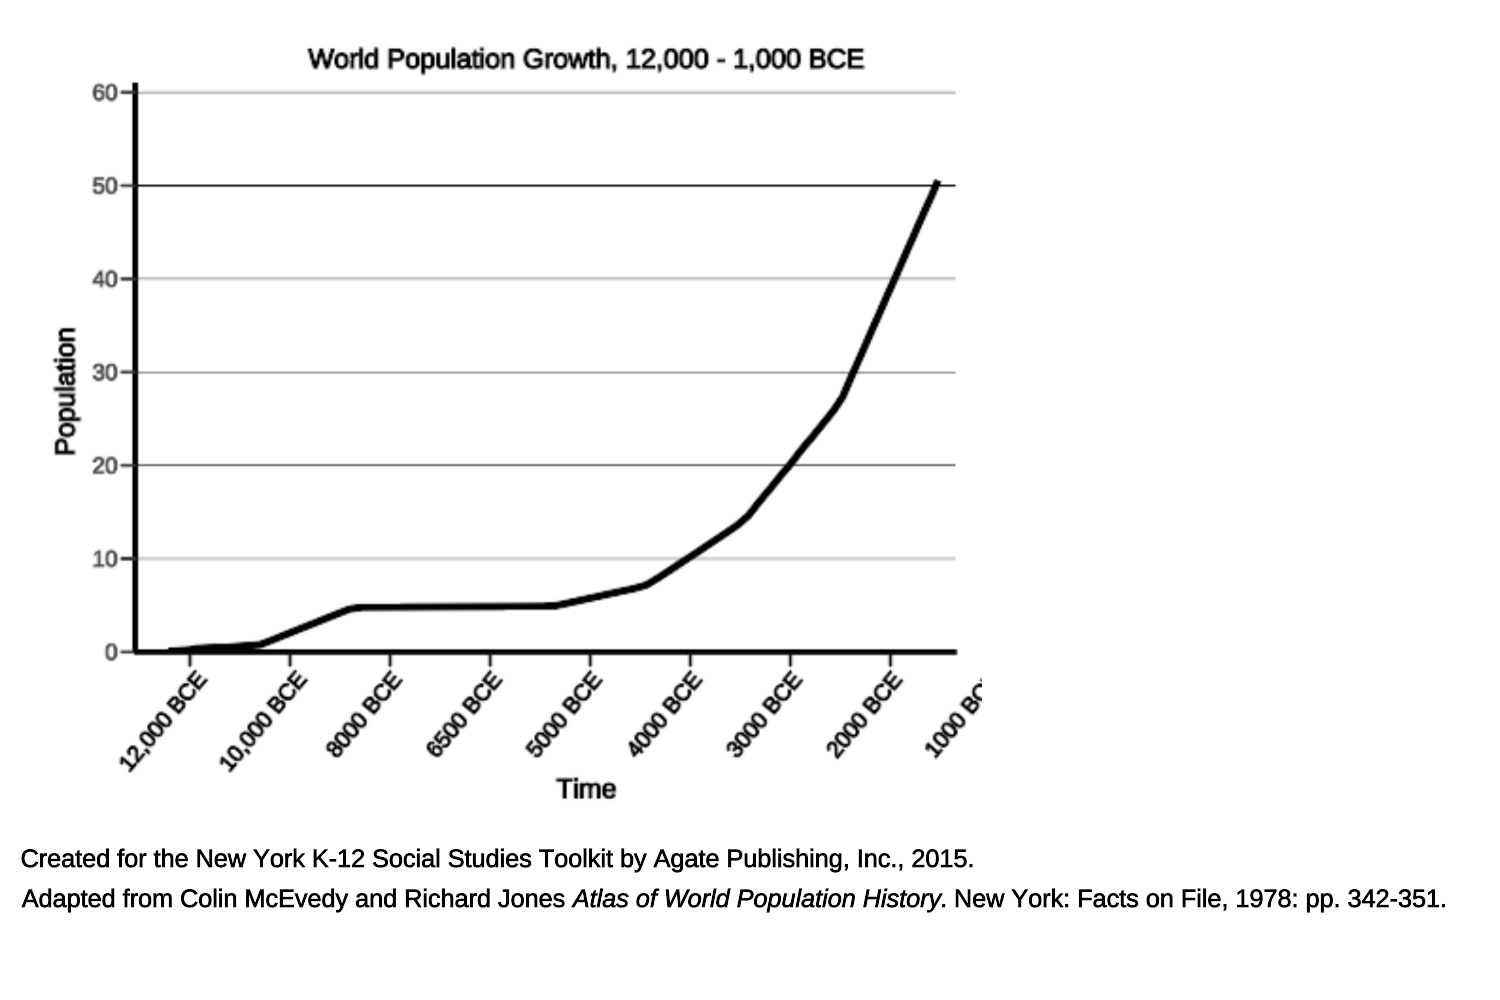
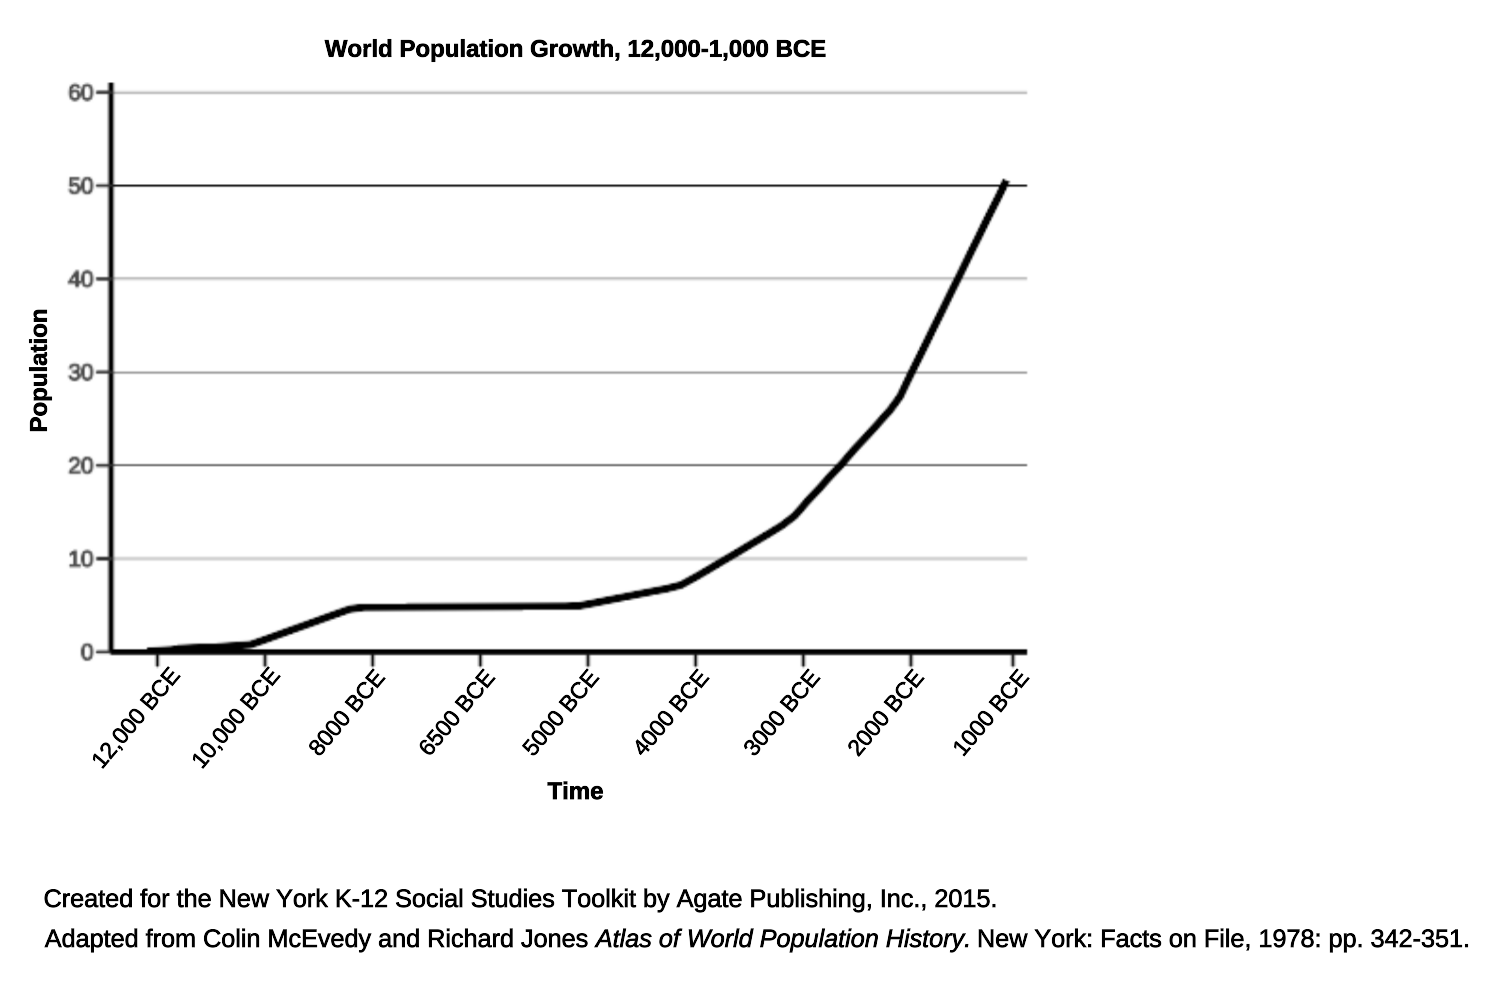
save

diff --git a/Agricultural revolution/Agricultural-Revolution--World-Population.html b/Agricultural revolution/Agricultural-Revolution--World-Population.html
@@ -365,7 +365,7 @@ x_label &lt;- c(&quot;12,000 BCE&quot;, &quot;10,000 BCE&quot;, &quot;8000 BCE&q
 data&lt;- tibble(
  year_levels = c(0.05978, 0.08519, 0.09181, 0.1078, 0.13351, 0.14909, 0.1545, 0.16917, 0.18369, 0.19849, 0.2139, 0.2293, 0.2447, 0.26011, 0.27551, 0.29092, 0.30634, 0.32176, 0.33718, 0.35259, 0.36801, 0.38343, 0.39885, 0.41426, 0.42968, 0.4451, 0.46052, 0.47593, 0.49135, 0.50677, 0.52218, 0.53759, 0.553, 0.56841, 0.58382, 0.59923, 0.61464, 0.63005, 0.64545, 0.66084, 0.67624, 0.69163, 0.70703, 0.72242, 0.73782, 0.75199, 0.76514, 0.77817, 0.79122, 0.80335, 0.81535, 0.82841, 0.84089, 0.85394, 0.86467, 0.87199, 0.87896, 0.88594, 0.89291, 0.89988, 0.90685, 0.91383, 0.9208, 0.92777, 0.93475, 0.94172, 0.94869, 0.95566, 0.96264, 0.97024, 0.97672, .978),
   amount= c(0.06883, 0.21446, 0.3523, 0.43854, 0.52051, 0.64092, 0.66411, 0.77169, 1.27805, 1.81428, 2.37405, 2.92253, 3.4823, 4.03642, 4.58489, 4.79439, 4.8005, 4.80661, 4.81273, 4.81884, 4.82495, 4.83106, 4.83718, 4.84329, 4.8494, 4.85552, 4.86163, 4.86774, 4.87385, 4.87997, 4.95952, 5.25376, 5.56495, 5.86485, 6.17604, 6.47593, 6.77582, 7.1661, 8.0027, 8.9071, 9.82844, 10.73284, 11.66548, 12.58118, 13.52512, 14.60154, 16.12566, 17.52331, 18.97974, 20.26605, 21.68134, 23.06712, 24.45585, 25.91524, 27.37889, 28.92612, 30.34581, 31.74686, 33.16656, 34.60489, 35.99973, 37.42564, 38.85776, 40.24017, 41.67229, 43.11063, 44.49925, 45.93758, 47.34485, 48.83146, 50.1905, 50.5))
-picture &lt;- image_graph(width = 500, height = 450)
+picture &lt;- image_graph(width = 530, height = 450)
 annotation_custom2 &lt;- 
 function (grob, xmin = -Inf, xmax = Inf, ymin = -Inf, ymax =Inf, data) 
 {
@@ -392,7 +392,7 @@ function (grob, xmin = -Inf, xmax = Inf, ymin = -Inf, ymax =Inf, data)
         panel.grid.minor.y= element_blank(),
         axis.text.x= element_blank(),
         axis.text.y = element_text(size = 12),
-   plot.margin=unit(c(2,.5,3,1), &quot;cm&quot;),
+   plot.margin=unit(c(2,.7,3,.1), &quot;cm&quot;),
 ))</code></pre>
 <pre><code>## Warning: Using `size` aesthetic for lines was deprecated in ggplot2 3.4.0.
 ## ℹ Please use `linewidth` instead.</code></pre>
@@ -402,31 +402,27 @@ function (grob, xmin = -Inf, xmax = Inf, ymin = -Inf, ymax =Inf, data)
 <pre><code>## quartz_off_screen 
 ##                 2</code></pre>
 <pre class="r"><code>img &lt;- image_draw(picture)
-segments(x0=80, x1=80, y0=365, y1=360, lwd = 2, lty = &quot;solid&quot;)+
-  segments(x0=133, x1=133, y0=365, y1=360, lwd = 2, lty = &quot;solid&quot;)+
-  text(66,395, &quot;12,000 BCE&quot;, cex = 1,  srt = 50)+
-  segments(x0=186, x1=186, y0=365, y1=360, lwd = 2, lty = &quot;solid&quot;)+
-  text(119,395, &quot;10,000 BCE&quot;, cex = 1,  srt = 50)+
-  text(172,391, &quot;8000 BCE&quot;, cex = 1,  srt = 50)+
-  segments(x0=239, x1=239, y0=365, y1=360, lwd = 2, lty = &quot;solid&quot;)+
-  text(225,391, &quot;6500 BCE&quot;, cex = 1,  srt = 50)+
-  segments(x0=292, x1=292, y0=365, y1=360, lwd = 2, lty = &quot;solid&quot;)+
-  text(278,391, &quot;5000 BCE&quot;, cex = 1,  srt = 50)+
-  segments(x0=345, x1=345, y0=365, y1=360, lwd = 2, lty = &quot;solid&quot;)+
-  text(331,391, &quot;4000 BCE&quot;, cex = 1,  srt = 50)+
-  segments(x0=398, x1=398, y0=365, y1=360, lwd = 2, lty = &quot;solid&quot;)+
-  text(384,391, &quot;3000 BCE&quot;, cex = 1,  srt = 50)+
-  segments(x0=451, x1=451, y0=365, y1=360, lwd = 2, lty = &quot;solid&quot;)+
-  text(437,391, &quot;2000 BCE&quot;, cex = 1,  srt = 50)+
+segments(x0=50, x1=50, y0=365, y1=360, lwd = 2, lty = &quot;solid&quot;)+
+  segments(x0=107, x1=107, y0=365, y1=360, lwd = 2, lty = &quot;solid&quot;)+
+  
+  segments(x0=164, x1=164, y0=365, y1=360, lwd = 2, lty = &quot;solid&quot;)+
+  
+  segments(x0=221, x1=221, y0=365, y1=360, lwd = 2, lty = &quot;solid&quot;)+
+ 
+  segments(x0=278, x1=278, y0=365, y1=360, lwd = 2, lty = &quot;solid&quot;)+
+  
+  segments(x0=335, x1=335, y0=365, y1=360, lwd = 2, lty = &quot;solid&quot;)+
+  segments(x0=392, x1=392, y0=365, y1=360, lwd = 2, lty = &quot;solid&quot;)+
+  
+  
+  segments(x0=449, x1=449, y0=365, y1=360, lwd = 2, lty = &quot;solid&quot;)+
+  
   segments(x0=503, x1=503, y0=365, y1=360, lwd = 2, lty = &quot;solid&quot;)+
-  text(489,391, &quot;1000 BCE&quot;, cex = 1,  srt = 50)+
-  text(290,430, &quot;Time&quot;, cex = 1.2)+
-  text(15,220, &quot;Population&quot;, cex = 1.2,  srt = 90)+
-  text(290,45, &quot;World Population Growth, 12,000 - 1,000 BCE&quot;, cex = 1.2)</code></pre>
+  
+  
+  
+dev.off()</code></pre>
 <pre><code>## integer(0)</code></pre>
-<pre class="r"><code>dev.off()</code></pre>
-<pre><code>## quartz_off_screen 
-##                 2</code></pre>
 <pre class="r"><code>image_write(img, path = here::here(&#39;Agricultural revolution&#39;, &quot;graph.png&quot;), format = &quot;png&quot;)
 
 #ggsave(&#39;line.png&#39;, height = 2, width =3)</code></pre>
@@ -450,11 +446,24 @@ dev.off()</code></pre>
 ##                 2</code></pre>
 <pre class="r"><code>img &lt;- image_draw(picture)
 
-grid.raster(plot1, .34, .60, height =.85)
-text(497,860, &quot;Created for the New York K-12 Social Studies Toolkit by Agate Publishing, Inc., 2015.&quot;, cex = 2.1, col = &quot;black&quot;)+
-  text(293,900, &quot;Adapted from Colin McEvedy and Richard Jones&quot;, cex = 2.1, col = &quot;black&quot;)+
-   text(760,900, substitute(italic(&quot;Atlas of World Population History.&quot;)), cex = 2.1, col = &quot;black&quot;)+
-  text(1200,900, &quot;New York: Facts on File, 1978: pp. 342-351.&quot;, cex = 2.1, col = &quot;black&quot;)</code></pre>
+grid.raster(plot1, .375, .60, height =.85)
+text(520,900, &quot;Created for the New York K-12 Social Studies Toolkit by Agate Publishing, Inc., 2015.&quot;, cex = 2.1, col = &quot;black&quot;)+
+  text(316,940, &quot;Adapted from Colin McEvedy and Richard Jones&quot;, cex = 2.1, col = &quot;black&quot;)+
+   text(783,940, substitute(italic(&quot;Atlas of World Population History.&quot;)), cex = 2.1, col = &quot;black&quot;)+
+  text(1223,940, &quot;New York: Facts on File, 1978: pp. 342-351.&quot;, cex = 2.1, col = &quot;black&quot;)+
+  text(136,718, &quot;12,000 BCE&quot;, cex = 1.9,  srt = 50)+
+  text(236,718, &quot;10,000 BCE&quot;, cex = 1.9,  srt = 50)+
+  text(346,712, &quot;8000 BCE&quot;, cex = 1.9,  srt = 50)+
+  text(456,712, &quot;6500 BCE&quot;, cex = 1.9,  srt = 50)+
+  text(560,712, &quot;5000 BCE&quot;, cex = 1.9,  srt = 50)+
+  text(670,712, &quot;4000 BCE&quot;, cex = 1.9,  srt = 50)+
+  text(781,712, &quot;3000 BCE&quot;, cex = 1.9,  srt = 50)+
+  text(885,712, &quot;2000 BCE&quot;, cex = 1.9,  srt = 50)+
+  text(990,712, &quot;1000 BCE&quot;, cex = 1.9,  srt = 50)+
+  
+  text(575,790, substitute(bold(&quot;Time&quot;)), cex = 2)+
+  text(40,370, substitute(bold(&quot;Population&quot;)), cex = 2,  srt = 90)+
+  text(575,50, substitute(bold(&quot;World Population Growth, 12,000-1,000 BCE&quot;)), cex = 2)</code></pre>
 <pre><code>## integer(0)</code></pre>
 <pre class="r"><code>dev.off()</code></pre>
 <pre><code>## quartz_off_screen 
